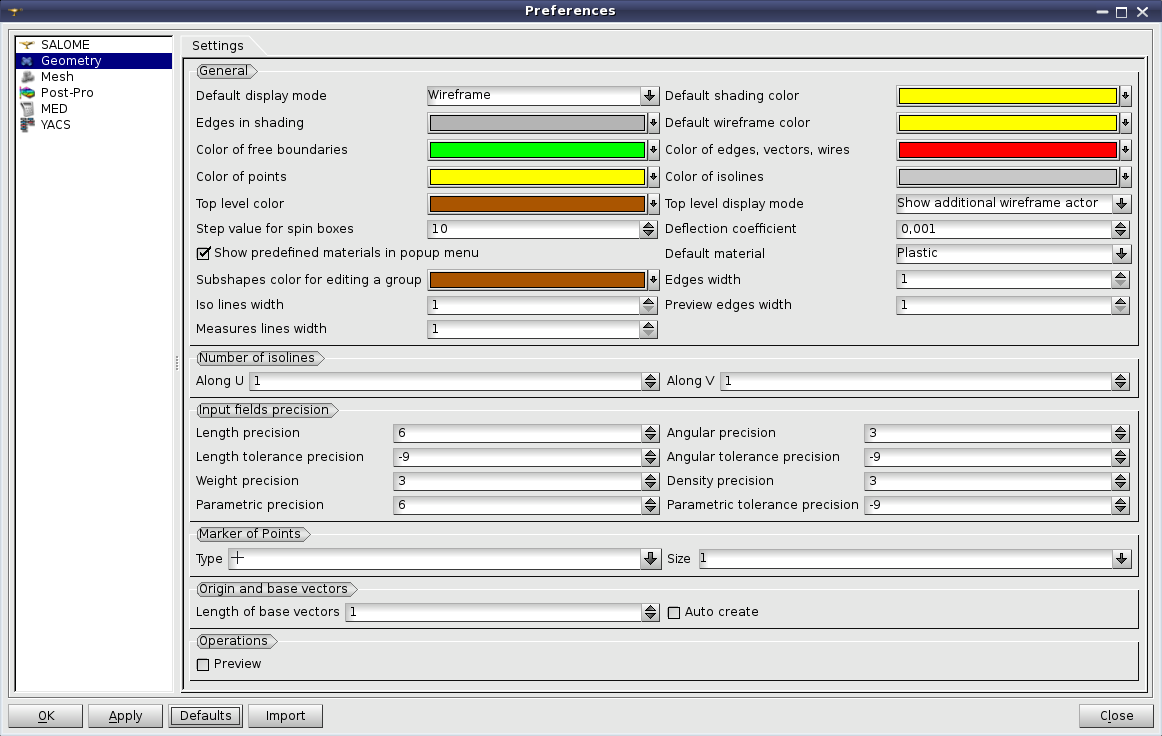
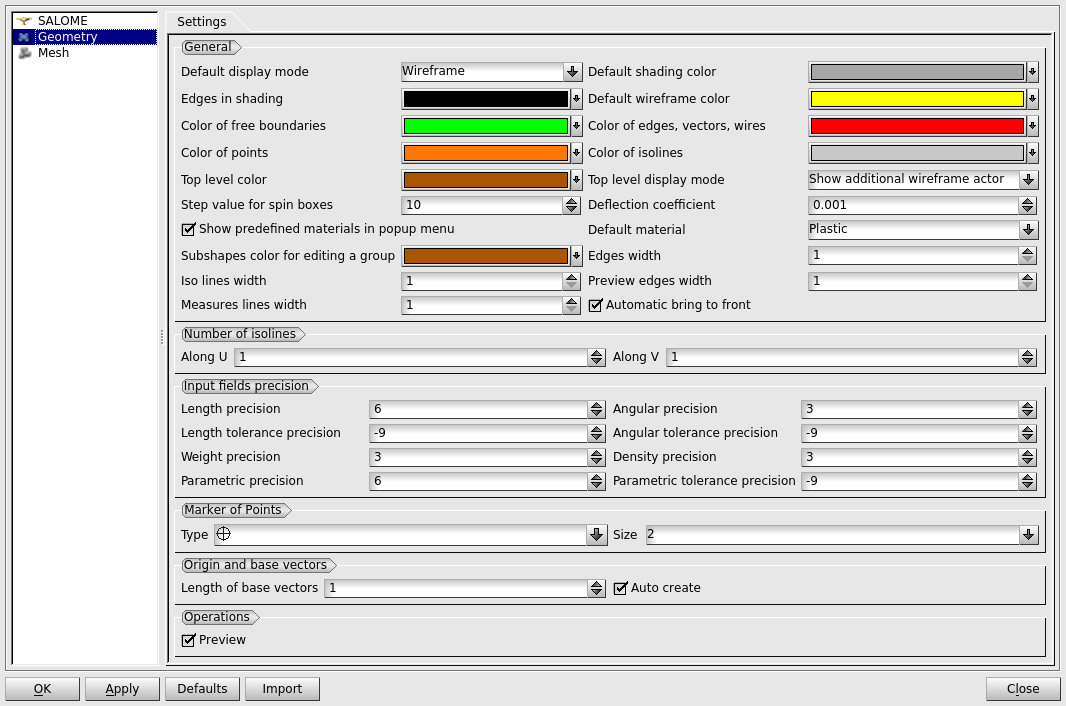
Implementation of 0021757: EDF 1829 : Activate bring to front action on simple selection of an object

diff --git a/src/GEOMGUI/GEOM_msg_fr.ts b/src/GEOMGUI/GEOM_msg_fr.ts
@@ -3243,6 +3243,10 @@ Choisissez une face, une coque ou un solide et essayez de nouveau</translation>
         <translation>Epaisseur des traits de mesure</translation>
     </message>
     <message>
+        <source>PREF_AUTO_BRING_TO_FRONT</source>
+        <translation>Afficher au premier plan automatiquement</translation>
+    </message>
+    <message>
         <source>PREF_ISOS</source>
         <translation>Nombre d&apos;isolignes</translation>
     </message>

diff --git a/src/GEOMGUI/GEOM_msg_en.ts b/src/GEOMGUI/GEOM_msg_en.ts
@@ -3237,6 +3237,10 @@ Please, select face, shell or solid and try again</translation>
         <translation>Measures lines width</translation>
     </message>
     <message>
+        <source>PREF_AUTO_BRING_TO_FRONT</source>
+        <translation>Automatic bring to front</translation>
+    </message>
+    <message>
         <source>PREF_ISOS</source>
         <translation>Number of isolines</translation>
     </message>

diff --git a/src/GEOMGUI/GEOMGUI_Selection.h b/src/GEOMGUI/GEOMGUI_Selection.h
@@ -73,6 +73,7 @@ private:
   bool                  hasDisclosedChildren( const int ) const;
   bool                  compoundOfVertices( const int ) const;
   bool                  topLevel( const int ) const;
+  bool                  autoBringToFront( const int ) const;
   bool                  isPhysicalMaterial( const int ) const;
 
   bool                  isComponent( const int ) const;

diff --git a/src/GEOMGUI/GeometryGUI.h b/src/GEOMGUI/GeometryGUI.h
@@ -168,6 +168,7 @@ private slots:
   void                        OnSetMaterial( const QString& );
   void                        updateMaterials();
   void                        updateCreationInfo();
+  void                        onAutoBringToFront();
 
 signals :
   void                        SignalDeactivateActiveDialog();
